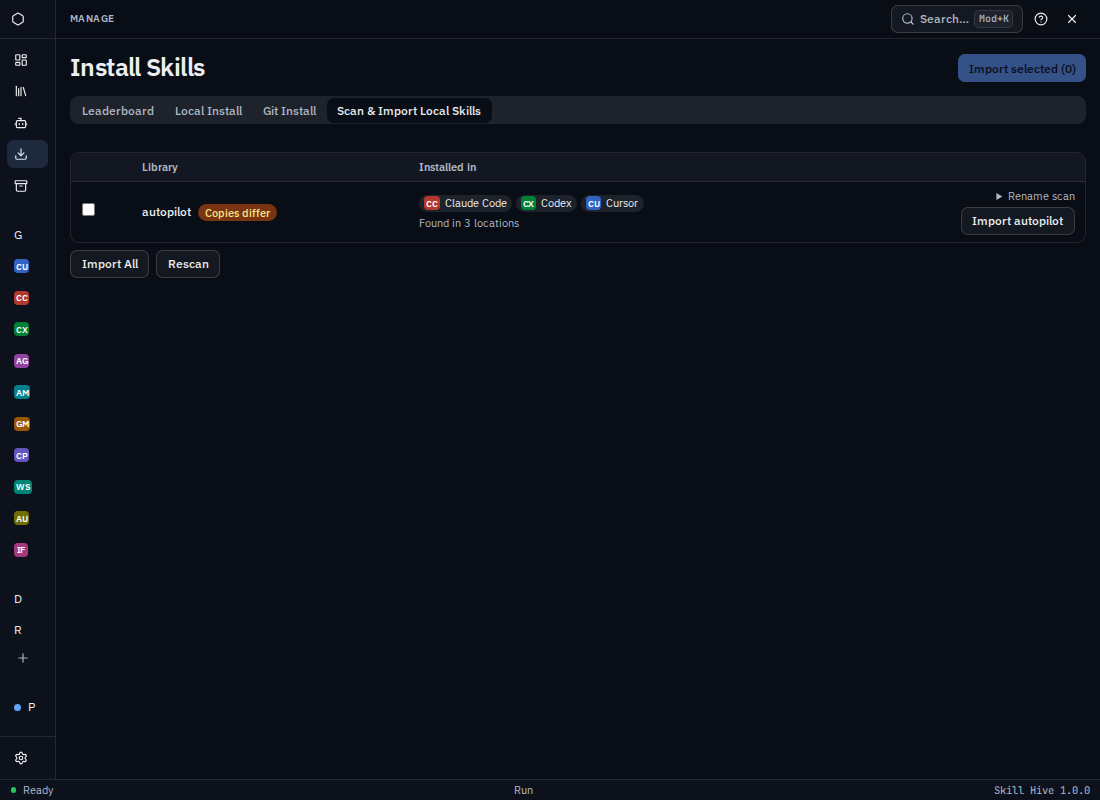
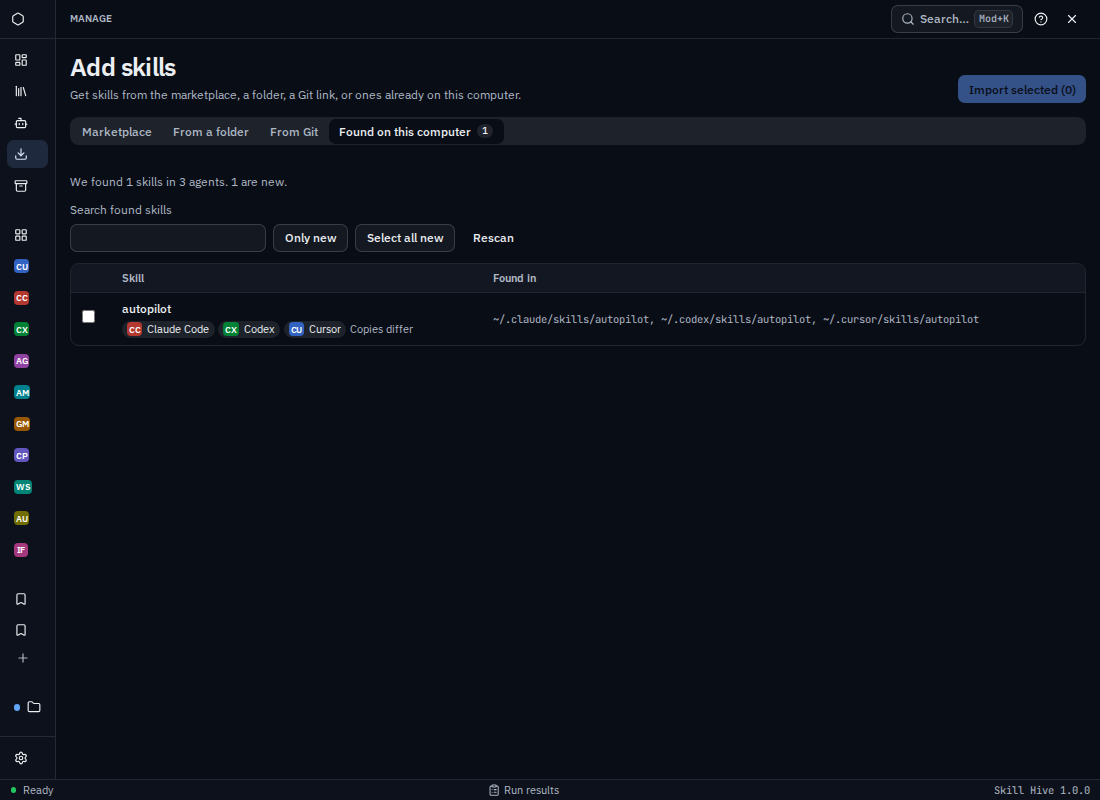
Open the agents form and row menus the checks still expect.
Add agent reveals the name field, and Pull center, Restore, and the project actions sit in row menus. The install scan check looks for the grouped paths and agent names, and the scan screenshots match that table.

diff --git a/e2e/project-flows.spec.ts b/e2e/project-flows.spec.ts
@@ -12,11 +12,15 @@ test("project export flow changes the sidebar dot", async ({ page }) => {
   await expect(page.getByTestId("sidebar-project-dot")).toHaveAttribute("data-color", "grey");
   await page.getByRole("button", { name: "Link project" }).click();
   await expect(page.getByTestId("sidebar-project-dot")).toHaveAttribute("data-color", "red");
-  await page.getByRole("button", { name: "Add to agents" }).click();
+  await page.getByRole("button", { name: "More notes" }).click();
+  await page.getByRole("menuitem", { name: "Add to agents" }).click();
   await expect(page.getByTestId("project")).toContainText("Claude Code, Codex");
-  await page.getByRole("button", { name: "Toggle skill" }).click();
+  await page.getByRole("button", { name: "More notes" }).click();
+  await page.getByRole("menuitem", { name: "Toggle skill" }).click();
   await expect(page.getByTestId("sidebar-project-dot")).toHaveAttribute("data-color", "grey");
-  await page.getByRole("button", { name: "Toggle skill" }).click();
-  await page.getByRole("button", { name: "Pull center" }).click();
+  await page.getByRole("button", { name: "More notes" }).click();
+  await page.getByRole("menuitem", { name: "Toggle skill" }).click();
+  await page.getByRole("button", { name: "More notes" }).click();
+  await page.getByRole("menuitem", { name: "Pull center" }).click();
   await expect(page.getByTestId("sidebar-project-dot")).toHaveAttribute("data-color", "green");
 });

diff --git a/e2e/library-grid.spec.ts b/e2e/library-grid.spec.ts
@@ -148,11 +148,11 @@ for (const theme of ["light", "dark"] as const) {
     await prepare(page, theme, 1100, { "skill-hive-preview-agents": "1" });
     await page.goto("/install?tab=scan");
     const scan = page.getByTestId("install");
-    await expect(scan.getByText("Found in 3 locations")).toBeVisible();
+    await expect(scan.getByText("~/.claude/skills/autopilot, ~/.codex/skills/autopilot, ~/.cursor/skills/autopilot")).toBeVisible();
     await expect(page.getByRole("button", { name: "claude_code" })).toHaveCount(0);
-    await expect(scan.getByText("Claude Code")).toBeVisible();
-    await expect(scan.getByText("Codex")).toBeVisible();
-    await expect(scan.getByText("Cursor")).toBeVisible();
+    await expect(scan.getByText("Claude Code", { exact: true })).toBeVisible();
+    await expect(scan.getByText("Codex", { exact: true })).toBeVisible();
+    await expect(scan.getByText("Cursor", { exact: true })).toBeVisible();
     await page.screenshot({
       path: `docs/parity/screenshots/${theme}/install-scan-grouped.png`,
       fullPage: false,

diff --git a/e2e/backup-flows.spec.ts b/e2e/backup-flows.spec.ts
@@ -16,6 +16,7 @@ test("held-back removal then backup restore", async ({ page }) => {
   await expect(page.getByText("Update All")).toBeVisible();
   await page.goto("/backup");
   await page.getByRole("button", { name: "Back Up Now" }).click();
-  await page.getByRole("button", { name: "Restore" }).first().click();
+  await page.getByRole("button", { name: /Snapshot actions/ }).first().click();
+  await page.getByRole("menuitem", { name: "Restore" }).click();
   await expect(page.getByText(/safety-snap-1/)).toBeVisible();
 });
